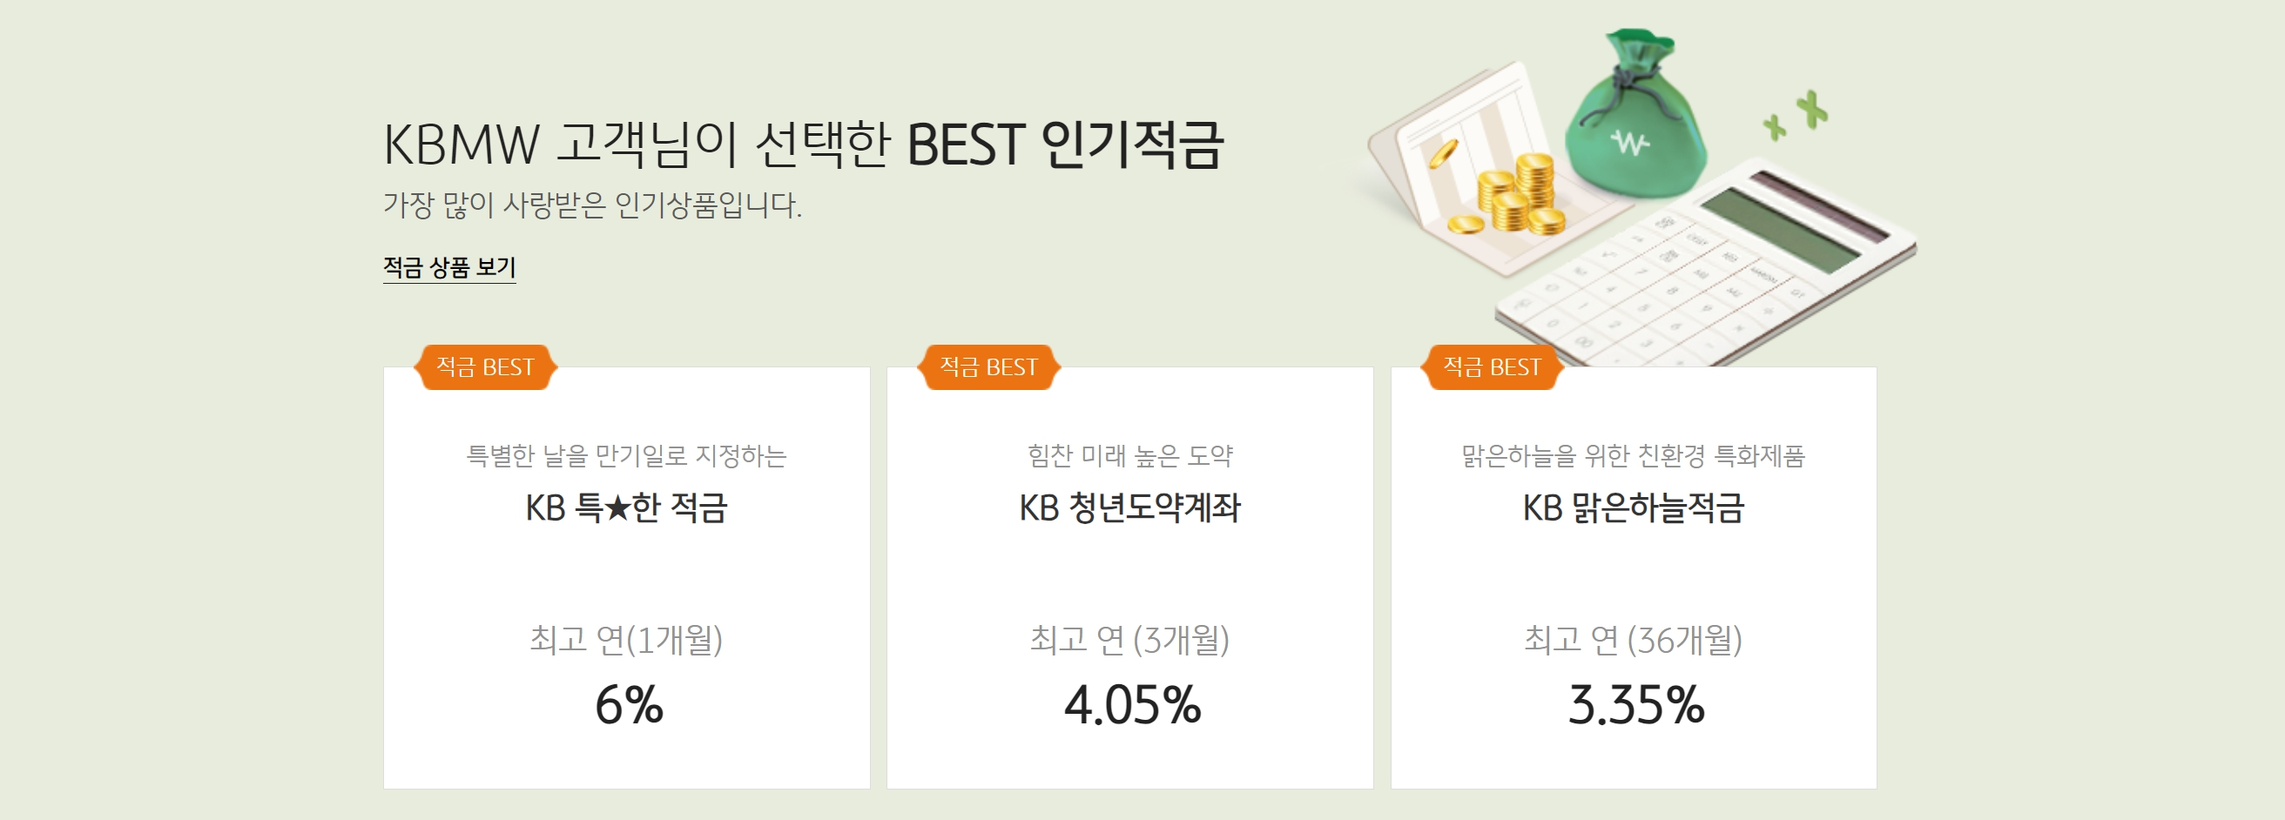
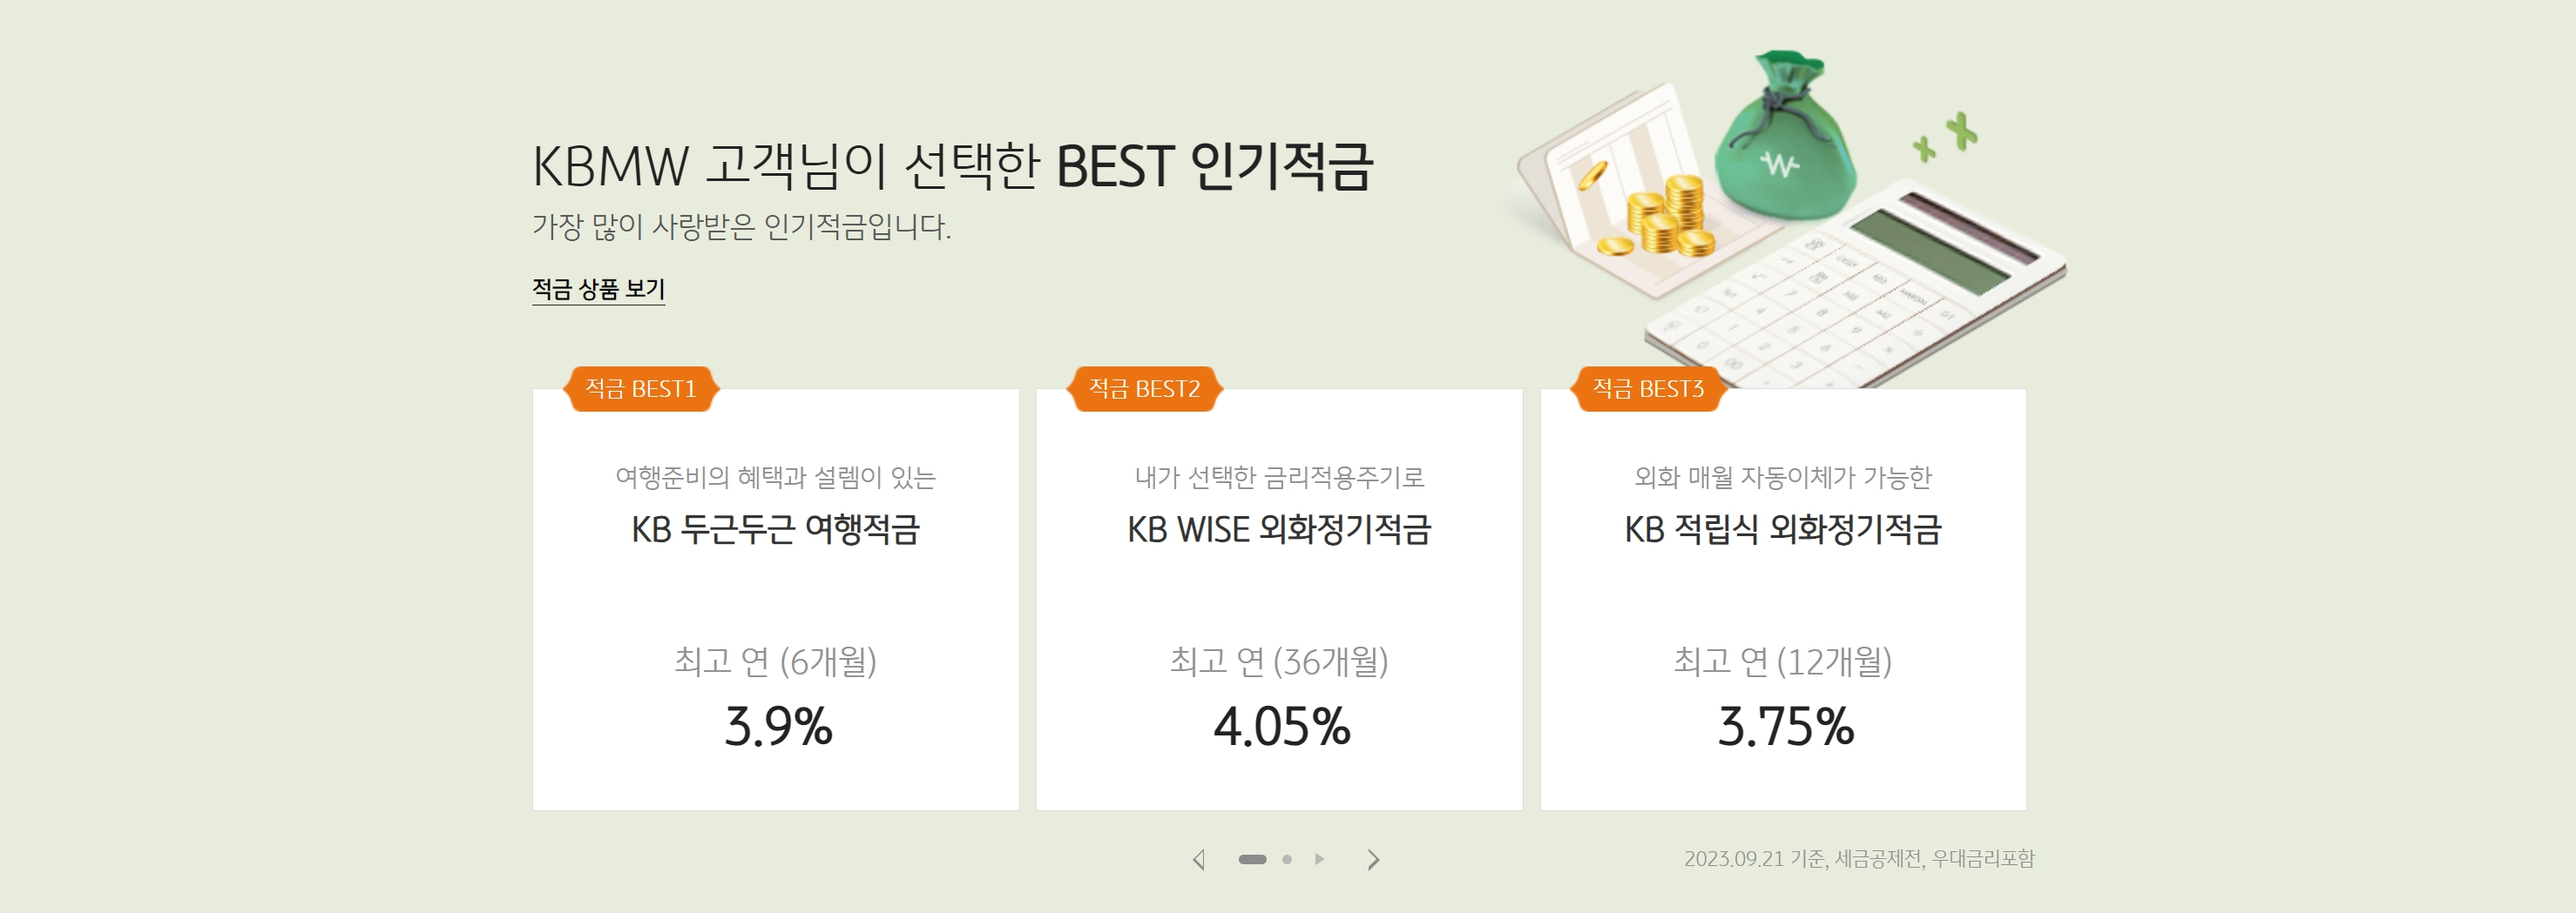
적금 배너 수정 및 ValidDataTest.java 수정 #186

diff --git a/src/test/java/kb04/team02/web/mvc/ValidDataTest.java b/src/test/java/kb04/team02/web/mvc/ValidDataTest.java
@@ -770,77 +770,77 @@ public class ValidDataTest {
 
 
         Saving save1 = savingRepository.save(Saving.builder()
-                .name("KB내맘대로적금")
+                .name("KB 두근두근 여행 적금")
                 .savingComment("\n" +
-                        "상품에 관한 다양한 옵션(우대이율, 부가서비스 등)을 제공함으로써 고객이 직접 상품 요건을 설계하여 가입할 수 있는 비대면채널 전용 DIY(Do-It-Yourself)형 상품")
-                .interestRate(3.75) // Example: Increment interest rate for each saving
-                .period(36) // Example: Increment period for each saving
-                .amountLimit(3_000_000L) // Example: Increment amount limit for each saving
+                        "여행준비의 혜택과 설렘이 있는 적금으로, 노랑풍선 최대 3만원 & 4% 외화적금")
+                .interestRate(3.9) // Example: Increment interest rate for each saving
+                .period(6) // Example: Increment period for each saving
+                .amountLimit(1_000_000L) // Example: Increment amount limit for each saving
                 .build());
         Saving save2 = savingRepository.save(Saving.builder()
-                .name("직장인우대적금")
-                .savingComment("직장인의 재테크 스타일을 반영하여 급여이체를 하거나 보너스 등의 부정기적인 자금을 추가로 적립하는 경우 우대이율로 목돈마련을 지원하고 결혼, 출산, 이사 등 이벤트를 위한 중도해지시 기본이율을 제공 하는 적립식 예금")
-                .interestRate(4.05) // Example: Increment interest rate for each saving
+                .name("KB WISE 외화정기적금")
+                .savingComment("내가 선택한 금리적용주기에 따라 복리로 이자를 불리는 외화적금")
+                .interestRate(4.5) // Example: Increment interest rate for each saving
                 .period(36) // Example: Increment period for each saving
-                .amountLimit(3_000_000L) // Example: Increment amount limit for each saving
+                .amountLimit(5_000_000L) // Example: Increment amount limit for each saving
                 .build());
         Saving save3 = savingRepository.save(Saving.builder()
+                .name("KB 적립식 외화정기적금")
+                .savingComment("외화를 매월 자동이체하거나 자유롭게 저축 가능한 스마트한 외화적금")
+                .interestRate(3.75) // Example: Increment interest rate for each saving
+                .period(12) // Example: Increment period for each saving
+                .amountLimit(3_000_000L) // Example: Increment amount limit for each saving
+                .build());
+        Saving save4 = savingRepository.save(Saving.builder()
                 .name("KB 특★한 적금")
                 .savingComment("내가 원하는 특별한 날을 만기일로 지정하고 변경할 수 있는 단기 적금")
                 .interestRate(6.0) // Example: Increment interest rate for each saving
                 .period(1) // Example: Increment period for each saving
                 .amountLimit(300_000L) // Example: Increment amount limit for each saving
                 .build());
-        Saving save4 = savingRepository.save(Saving.builder()
-                .name("KB장병내일준비적금")
-                .savingComment("병사봉급 한도 내에서 복무기간 동안 목돈마련을 원하는 병역 의무복무자 맞춤형 상품으로, 은행 거래실적에 따라 추가 우대이율 제공")
-                .interestRate(5.5) // Example: Increment interest rate for each saving
-                .period(24) // Example: Increment period for each saving
-                .amountLimit(200_000L) // Example: Increment amount limit for each saving
-                .build());
-        Saving save5 = savingRepository.save(Saving.builder()
-                .name("KB청년도약계좌")
-                .savingComment("힘찬 미래 높은 도약")
-                .interestRate(6.0) // Example: Increment interest rate for each saving
-                .period(3) // Example: Increment period for each saving
-                .amountLimit(700_000L) // Example: Increment amount limit for each saving
-                .build());
+//        Saving save5 = savingRepository.save(Saving.builder()
+//                .name("KB청년도약계좌")
+//                .savingComment("힘찬 미래 높은 도약")
+//                .interestRate(6.0) // Example: Increment interest rate for each saving
+//                .period(3) // Example: Increment period for each saving
+//                .amountLimit(700_000L) // Example: Increment amount limit for each saving
+//                .build());
         Saving save6 = savingRepository.save(Saving.builder()
-                .name("KB맑은하늘적금")
+                .name("KB 맑은하늘적금")
                 .savingComment("맑은하늘을 위한 생활 속 작은 실천에 대해 우대금리를 제공하고, 대중교통/자전거상해 관련 무료 보험서비스(최대 2억원 보장)를 제공하는 친환경 특화 상품")
                 .interestRate(3.35) // Example: Increment interest rate for each saving
                 .period(36) // Example: Increment period for each saving
                 .amountLimit(1_000_000L) // Example: Increment amount limit for each saving
                 .build());
-        Saving save7 = savingRepository.save(Saving.builder()
-                .name("온국민 건강적금-골든라이프")
-                .savingComment("시니어 고객의 건강관리와 금융 혜택을 결합한 앱테크형 상품으로, 저소득층 대상 특별 우대이율을 제공하는 적금")
-                .interestRate(10.0) // Example: Increment interest rate for each saving
-                .period(6) // Example: Increment period for each saving
-                .amountLimit(200_000L) // Example: Increment amount limit for each saving
-                .build());
+//        Saving save7 = savingRepository.save(Saving.builder()
+//                .name("온국민 건강적금-골든라이프")
+//                .savingComment("시니어 고객의 건강관리와 금융 혜택을 결합한 앱테크형 상품으로, 저소득층 대상 특별 우대이율을 제공하는 적금")
+//                .interestRate(10.0) // Example: Increment interest rate for each saving
+//                .period(6) // Example: Increment period for each saving
+//                .amountLimit(200_000L) // Example: Increment amount limit for each saving
+//                .build());
         Saving save8 = savingRepository.save(Saving.builder()
-                .name("KB맑은바다적금")
+                .name("KB 맑은바다적금")
                 .savingComment("해양쓰레기 줄이기 활동에 동참할 경우 친환경 실천 우대이율을 제공하고,\n" +
                         "맑은바다의 소중함에 대한 공감대를 형성하는 친환경 특화 상품")
                 .interestRate(3.05) // Example: Increment interest rate for each saving
                 .period(12) // Example: Increment period for each saving
                 .amountLimit(1_000_000L) // Example: Increment amount limit for each saving
                 .build());
-        Saving save9 = savingRepository.save(Saving.builder()
-                .name("KB Young Youth 적금")
-                .savingComment("자녀가 성년이 될 때까지 장기거래가 가능하며, 어린이/청소년을 위한 무료 보험가입서비스를 제공하는 적금")
-                .interestRate(3.65) // Example: Increment interest rate for each saving
-                .period(12) // Example: Increment period for each saving
-                .amountLimit(3_000_000L) // Example: Increment amount limit for each saving
-                .build());
-        Saving save10 = savingRepository.save(Saving.builder()
-                .name("KB상호부금(자유적립식)")
-                .savingComment("목돈을 마련하는 국민은행의 대표 적립식예금")
-                .interestRate(3.55) // Example: Increment interest rate for each saving
-                .period(36) // Example: Increment period for each saving
-                .amountLimit(5_000_000L) // Example: Increment amount limit for each saving
-                .build());
+//        Saving save9 = savingRepository.save(Saving.builder()
+//                .name("KB Young Youth 적금")
+//                .savingComment("자녀가 성년이 될 때까지 장기거래가 가능하며, 어린이/청소년을 위한 무료 보험가입서비스를 제공하는 적금")
+//                .interestRate(3.65) // Example: Increment interest rate for each saving
+//                .period(12) // Example: Increment period for each saving
+//                .amountLimit(3_000_000L) // Example: Increment amount limit for each saving
+//                .build());
+//        Saving save10 = savingRepository.save(Saving.builder()
+//                .name("KB상호부금(자유적립식)")
+//                .savingComment("목돈을 마련하는 국민은행의 대표 적립식예금")
+//                .interestRate(3.55) // Example: Increment interest rate for each saving
+//                .period(36) // Example: Increment period for each saving
+//                .amountLimit(5_000_000L) // Example: Increment amount limit for each saving
+//                .build());
 
         InstallmentSaving installmentSaving1 = InstallmentSaving.builder()
                 .maturityDate(LocalDateTime.of(2023, 12, 7, 0, 5))
@@ -848,7 +848,7 @@ public class ValidDataTest {
                 .totalAmount(600_0000L) // Example: Set a fixed total amount
                 .savingDate(10) // Example: Set a fixed saving date
                 .savingAmount(100_000L) // Example: Set a fixed saving amount
-                .saving(save7)
+                .saving(save4)
                 .groupWallet(groupWallet1)
                 .build();
         installmentSavingRepository.save(installmentSaving1);
